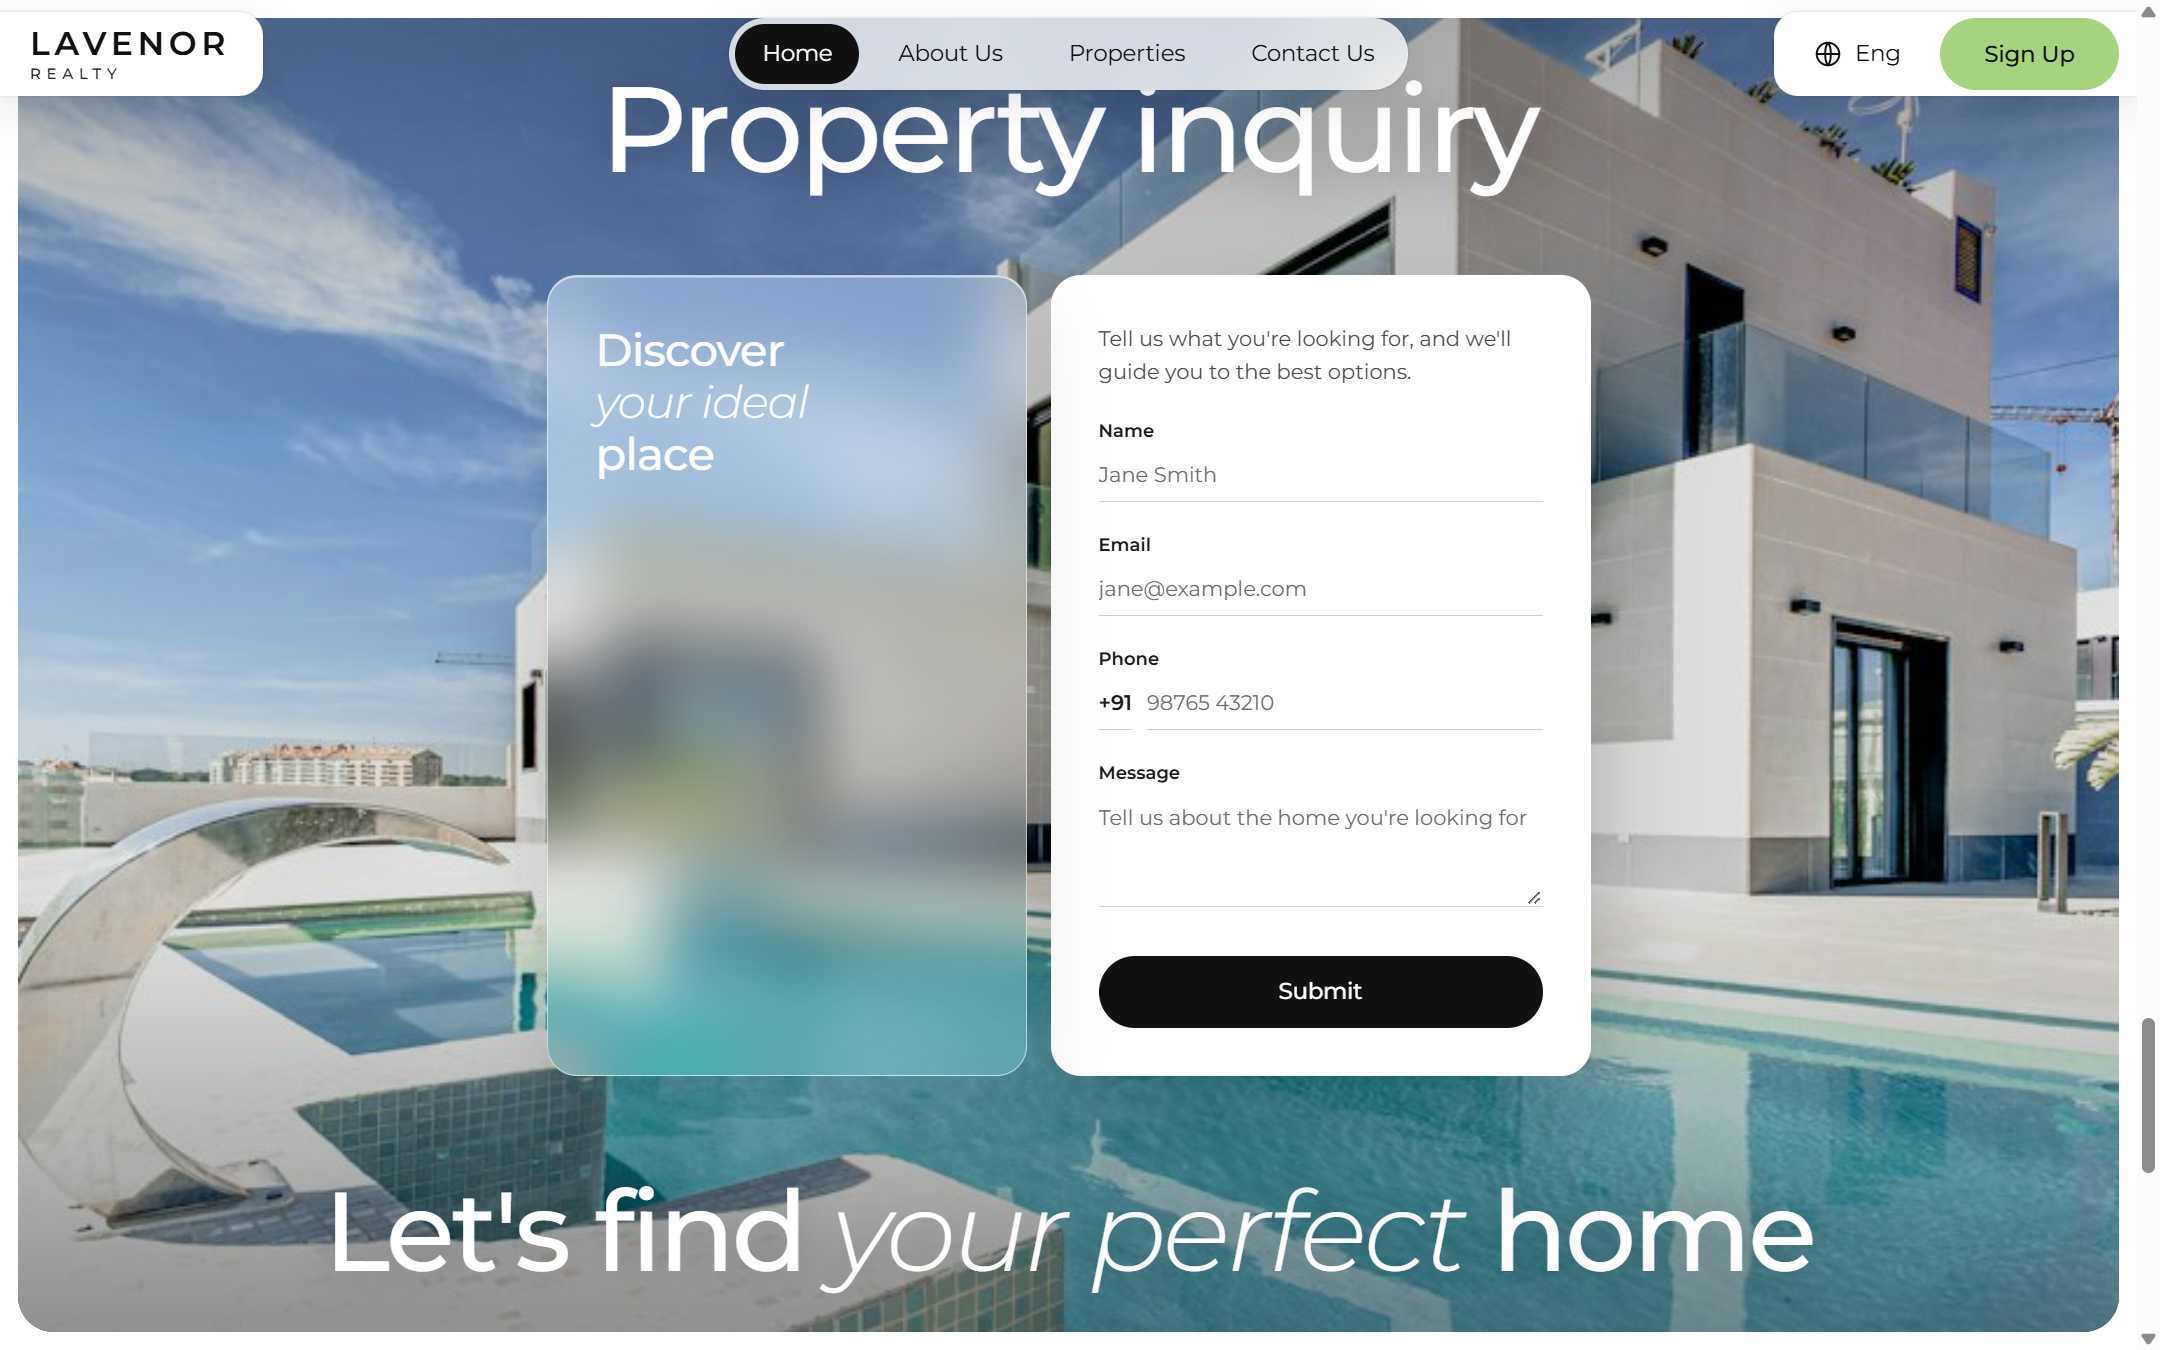
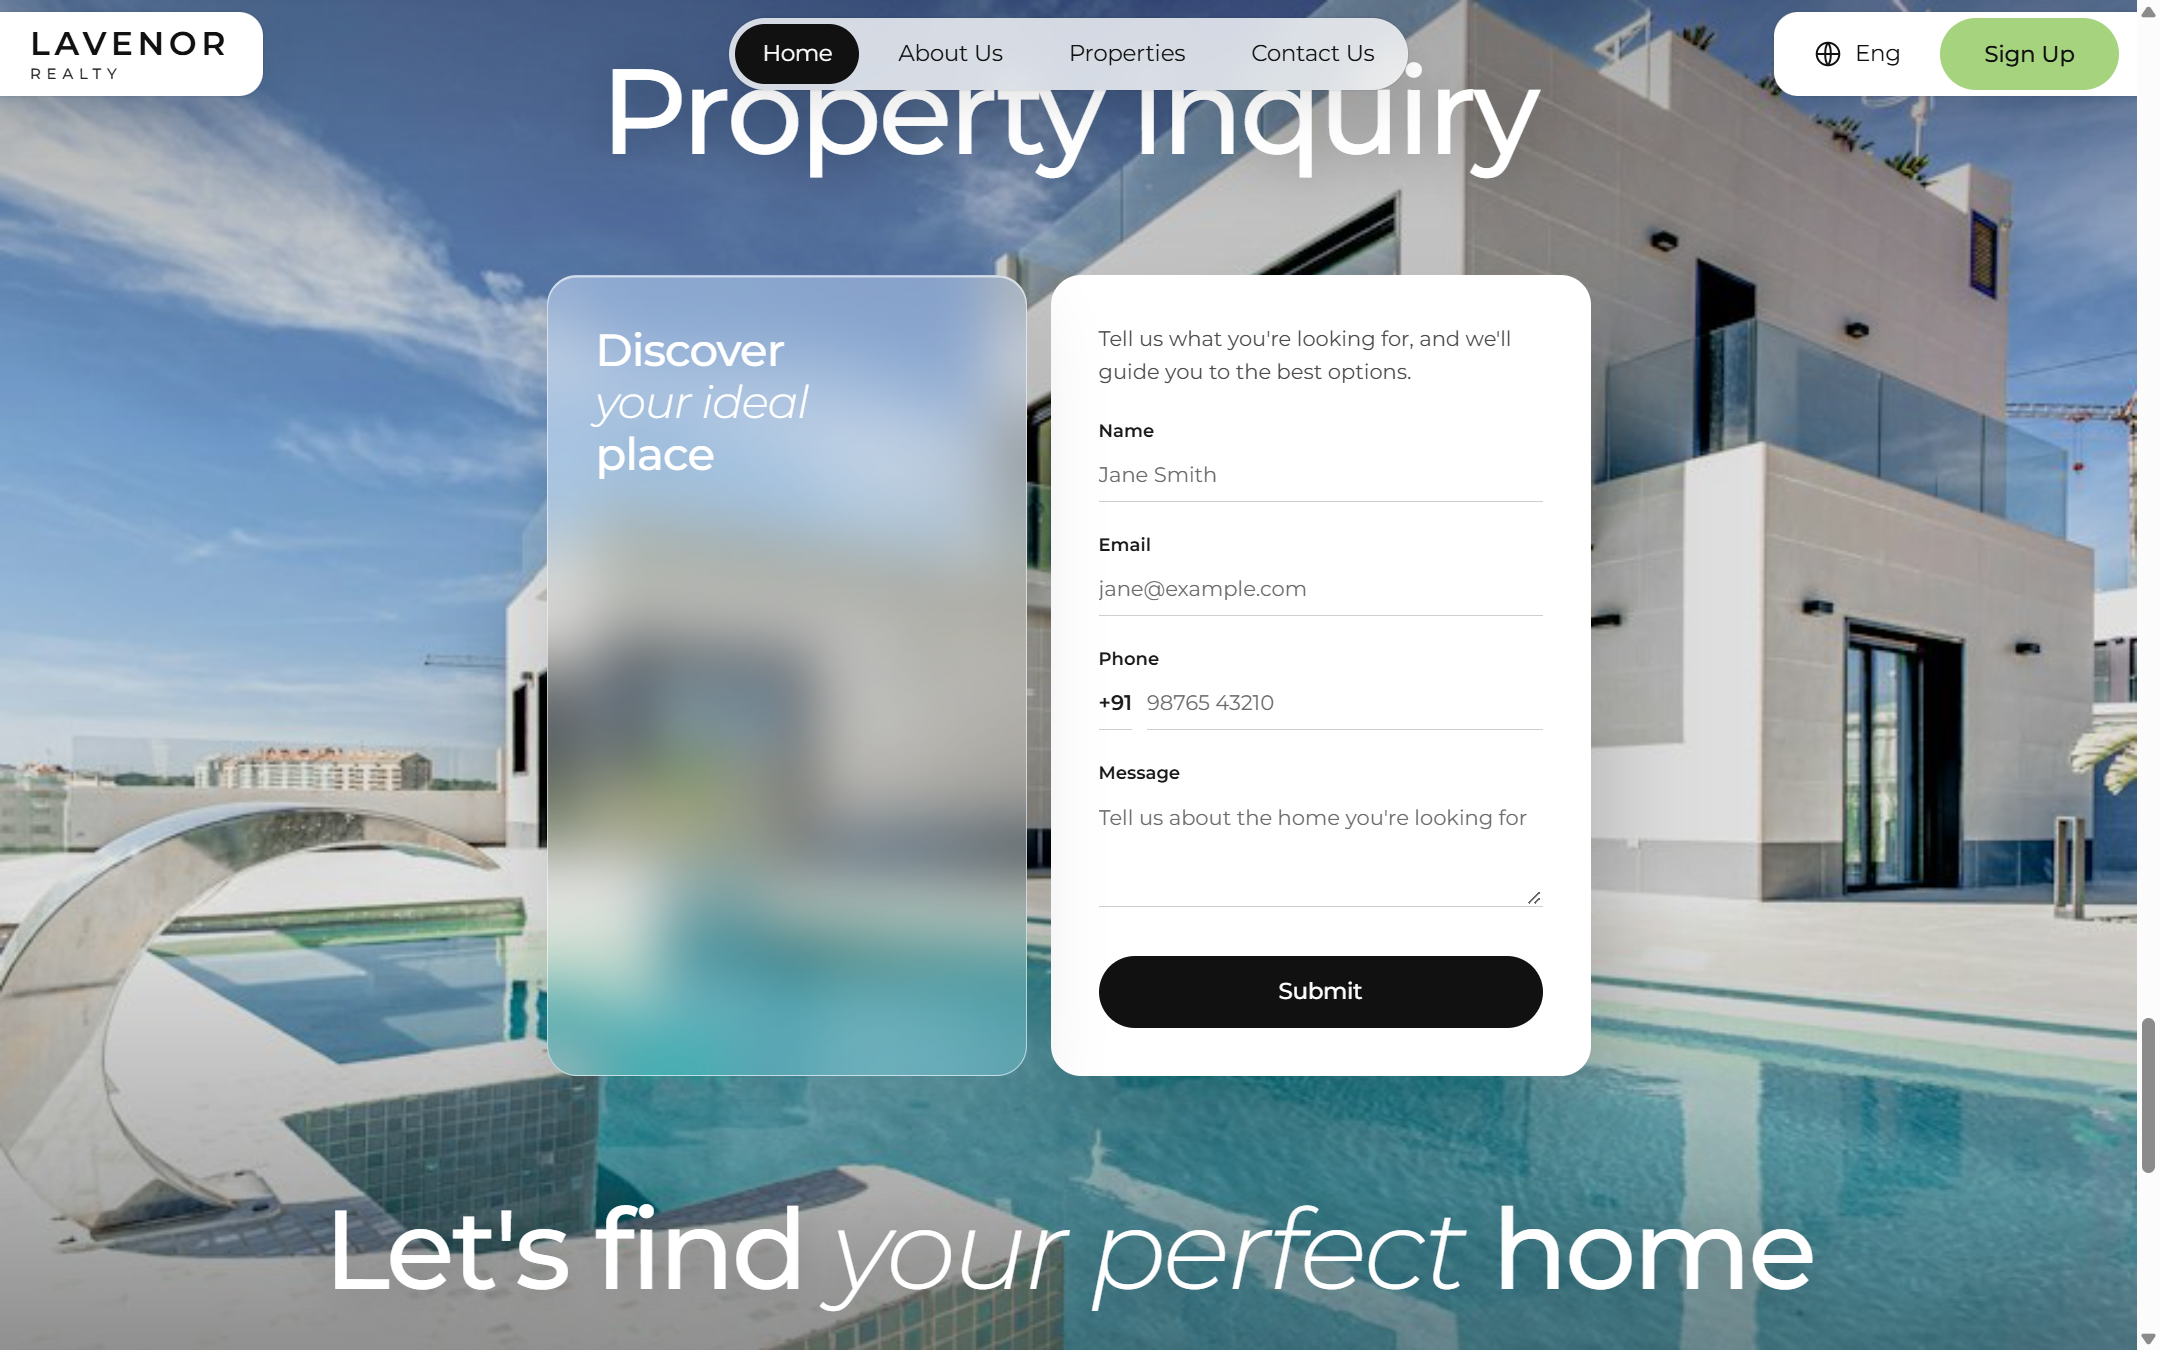
Inquiry band goes full bleed so the header bookmarks sit flush on it

diff --git a/design/prototype/style.css b/design/prototype/style.css
@@ -865,11 +865,11 @@ legend { padding: 0; }
 .faq__a p { max-width: 58ch; margin-top: -8px; padding: 0 28px 26px; font-size: 15px; line-height: 1.65; color: var(--wp--preset--color--ink-soft); }
 
 /* ---------- inquiry ---------- */
-.inquiry { padding: var(--wp--custom--hero--frame) 0; } /* frame + margins = one viewport, so the band can snap flush */
+.inquiry { padding: 0; } /* full bleed: one viewport, edge to edge, so the header bookmarks sit flush on it */
 .inquiry__frame {
 	position: relative; display: flex; align-items: center; justify-content: center;
-	min-height: max(calc(100svh - 2 * var(--wp--custom--hero--frame)), 760px); margin: 0 var(--wp--custom--hero--frame); padding: 150px 40px;
-	border-radius: var(--wp--custom--radius--card); overflow: hidden;
+	min-height: max(100svh, 760px); margin: 0; padding: 150px 40px;
+	border-radius: 0; overflow: hidden;
 	background: var(--wp--preset--color--contrast); color: var(--wp--preset--color--base);
 }
 .inquiry__bg { position: absolute; inset: 0; width: 100%; height: 100%; object-fit: cover; object-position: center 70%; }
